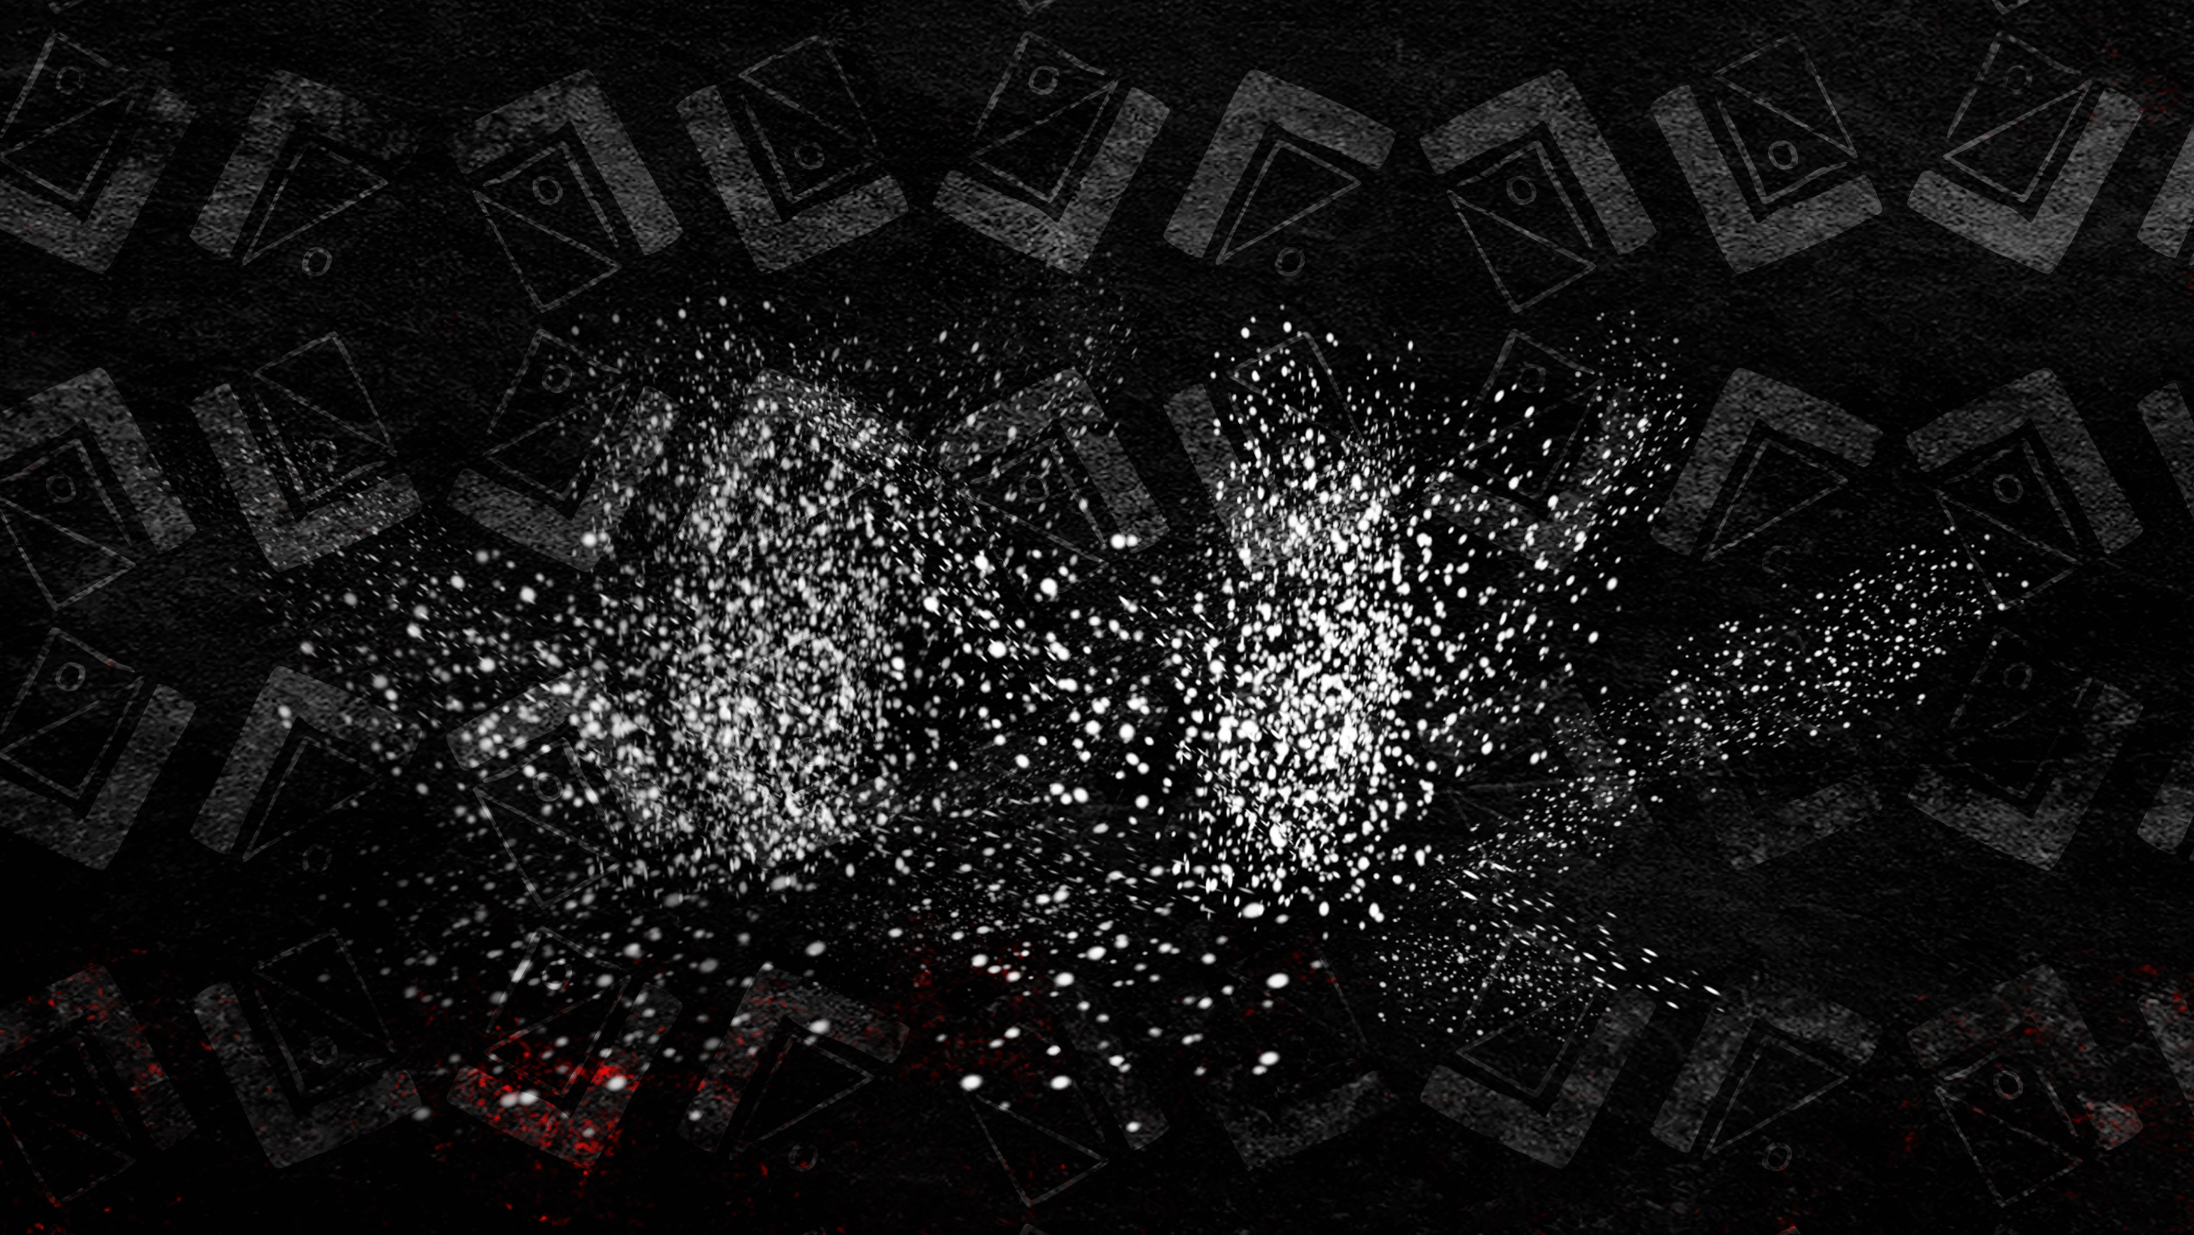
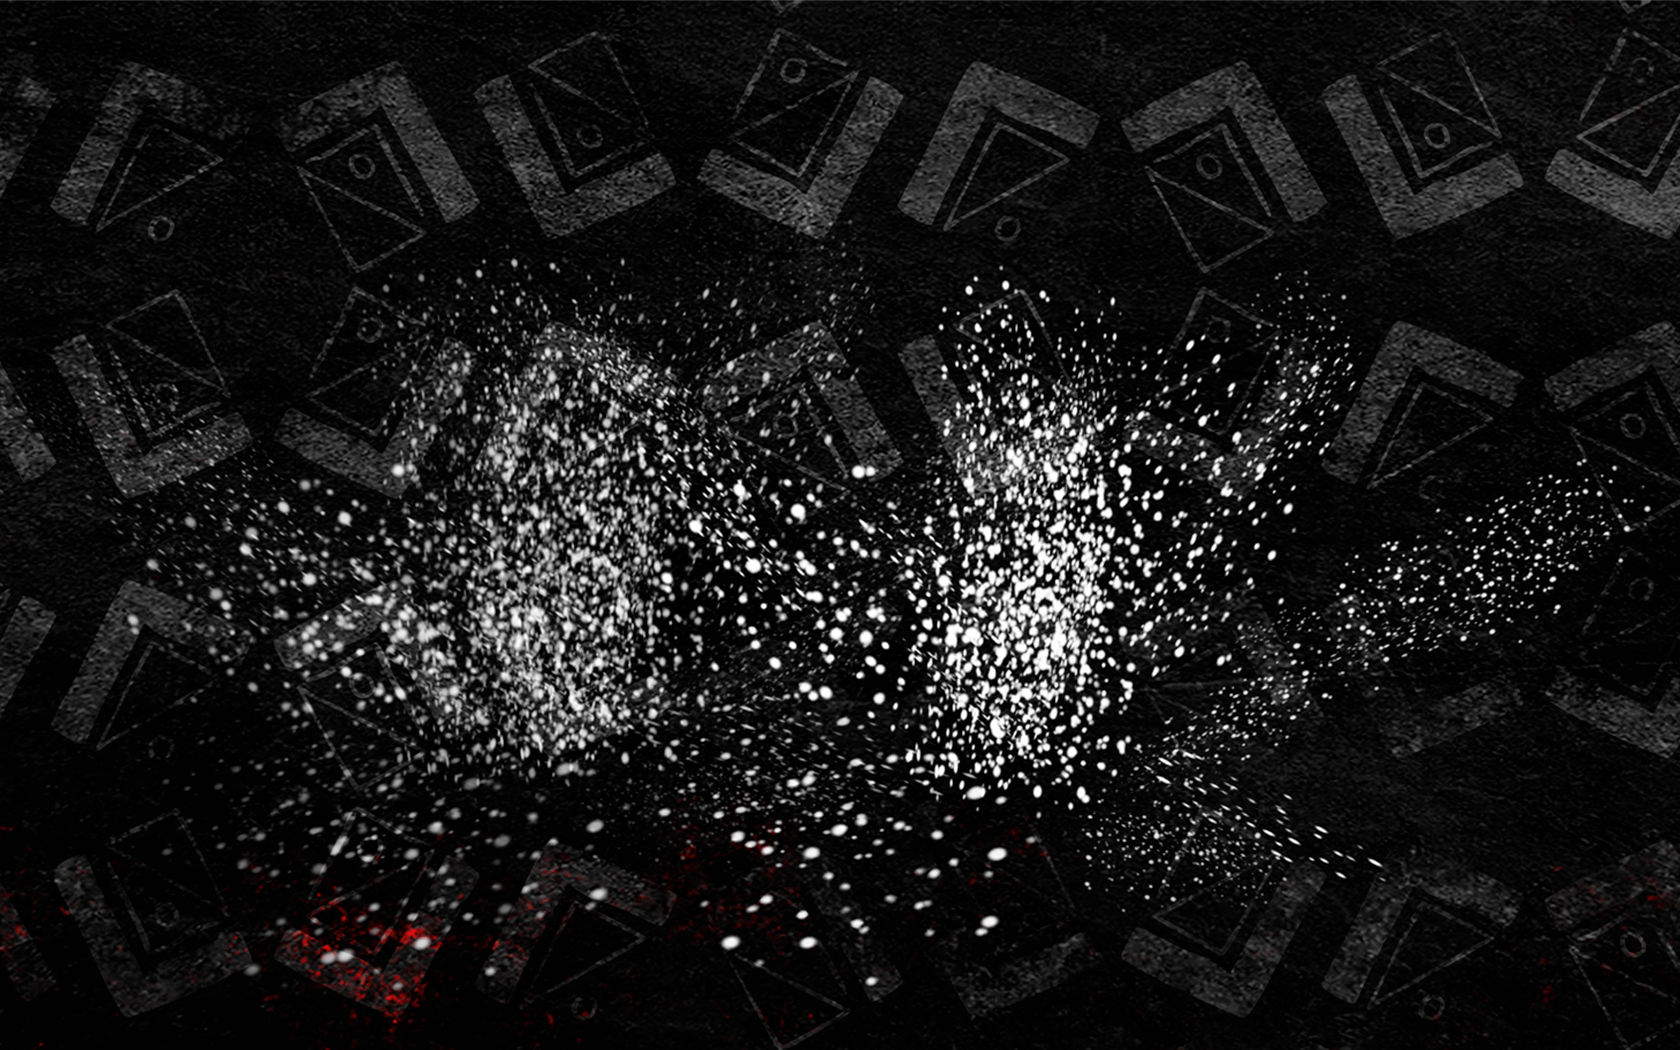
changes

diff --git a/assets/css/style.css b/assets/css/style.css
@@ -56,40 +56,15 @@ body{
     overflow-x: hidden;
 }
 
-/* Main Enter Page */
-
-.main_home{
-    position: relative;
-    /* background: url('../img/SolomonsWebsite/EnterPage/Background_EnterPage.png') no-repeat;
-    background-position: center;
-    background-size: cover; */
-    overflow: hidden;
-    width: 100%;
-    height: 100vh;
-    opacity: 1;
-    left: 0;
-}
-
-.main_home .background,
 .main_home .background_img{
     position: relative;
-    /* background: url('../img/SolomonsWebsite/EnterPage/Illustration_enterpage.png') no-repeat;
-    background-position: center;
-    background-size: cover; */
     width: 100%;
-    /* margin: auto 0; */
-    height: auto;
+    height: 100%;
 }
 
-.main_home .background_img{
-    position: absolute;
-    top: 0;
-    left: 0;
-}
-
-.main_home .background img,
 .main_home .background_img img{
     width: 100%;
+    height: 100%;
 }
 
 .main_home .enter_btn_section{
@@ -102,6 +77,8 @@ body{
     right: 0;
     bottom: 0;
     z-index: 9;
+    height: auto;
+    width: 100vw;
 }
 
 .main_home .enter_btn_section .btn{
@@ -111,15 +88,13 @@ body{
 
 .main_home .btn img.enter_btn{
     width: 100%;
+    height: auto;
 }
 
 /* Home Page */
 
 .home_section{
     position: relative;
-    /* background: url('../img/SolomonsWebsite/Homepage/Background_HomePage.png') no-repeat;
-    background-position: center center;
-    background-size: cover; */
     overflow: hidden;
     width: 100%;
     height: 100vh;
@@ -189,17 +164,13 @@ body{
     width: 100%;
 }
 
-.home_section .text p{
-    font-family: 'Agency FB Regular' !important;
-    color: white;
-    font-size: 1.6vw;
-    line-height: 1.1em;
+.home_section .text {
+    align-items: center;
+    width: 30%;
 }
 
-.home_section .text p strong{
-    font-family: 'Agency FB Bold' !important;
-    text-transform: uppercase;
-    font-size: 100%;
+.home_section .text img{
+    width: 100%;
 }
 
 .home_section .row a.intro_btn,
@@ -233,7 +204,7 @@ body{
 }
 
 .home_section .container .menu a.menu_link{
-    width: 12%;
+    width: 13%;
 }
 
 .home_section .container .menu a.menu_link img{
@@ -291,9 +262,164 @@ body{
 
 
 
+@media (min-width: 1281px) {
+  
+/* Main Enter Page */
 
+.main_home{
+    position: relative;
+    background: url('../img/SolomonsWebsite/EnterPage/Background_EnterPage.png') no-repeat;
+    background-position: top;
+    background-size: contain;
+    /* background-size: cover; */
+    overflow: hidden;
+    width: 100%;
+    height: 100vh;
+    opacity: 1;
+    left: 0;
+    }
 
+    .home_section{
+        height: 100vh;
+    }
+    
+}
+  
+  /* 
+    ##Device = Laptops, Desktops
+    ##Screen = B/w 1025px to 1280px
+  */
+  
+  @media (min-width: 1025px) and (max-width: 1280px) {
+    
+/* Main Enter Page */
 
+.main_home{
+    position: relative;
+    background: url('../img/SolomonsWebsite/EnterPage/Background_EnterPage.png') no-repeat;
+    background-position: top;
+    background-size: contain;
+    /* background-size: cover; */
+    overflow: hidden;
+    width: 100%;
+    height: 100vh;
+    opacity: 1;
+    left: 0;
+}
+.home_section{
+    height: 100vh;
+}
+    
+  }
+  
+  /* 
+    ##Device = Tablets, Ipads (portrait)
+    ##Screen = B/w 768px to 1024px
+  */
+  
+  @media (min-width: 768px) and (max-width: 1024px) {
+    
+/* Main Enter Page */
+
+.main_home{
+    position: relative;
+    background: url('../img/SolomonsWebsite/EnterPage/Background_EnterPage.png') no-repeat;
+    background-position: top;
+    background-size: contain;
+    /* background-size: cover; */
+    overflow: hidden;
+    width: 100%;
+    height: 100%;
+    opacity: 1;
+    left: 0;
+}
+.home_section{
+    height: 100%;
+}
+    
+  }
+  
+  /* 
+    ##Device = Tablets, Ipads (landscape)
+    ##Screen = B/w 768px to 1024px
+  */
+  
+  @media (min-width: 768px) and (max-width: 1024px) and (orientation: landscape) {
+    
+/* Main Enter Page */
+
+.main_home{
+    position: relative;
+    background: url('../img/SolomonsWebsite/EnterPage/Background_EnterPage.png') no-repeat;
+    background-position: top;
+    background-size: contain;
+    /* background-size: cover; */
+    overflow: hidden;
+    width: 100%;
+    height: 100%;
+    opacity: 1;
+    left: 0;
+}
+.home_section{
+    height: 100%;
+}
+
+    
+  }
+  
+  /* 
+    ##Device = Low Resolution Tablets, Mobiles (Landscape)
+    ##Screen = B/w 481px to 767px
+  */
+  
+  @media (min-width: 481px) and (max-width: 767px) {
+    
+/* Main Enter Page */
+
+.main_home{
+    position: relative;
+    background: url('../img/SolomonsWebsite/EnterPage/Background_EnterPage.png') no-repeat;
+    background-position: top;
+    background-size: contain;
+    /* background-size: cover; */
+    overflow: hidden;
+    width: 100%;
+    height: 100%;
+    opacity: 1;
+    left: 0;
+}
+.home_section{
+    height: 100%;
+}
+
+  }
+  
+  /* 
+    ##Device = Most of the Smartphones Mobiles (Portrait)
+    ##Screen = B/w 320px to 479px
+  */
+  
+  @media (min-width: 320px) and (max-width: 480px) {
+        
+/* Main Enter Page */
+
+.main_home{
+    position: relative;
+    background: url('../img/SolomonsWebsite/EnterPage/Background_EnterPage.png') no-repeat;
+    background-position: top;
+    background-size: contain;
+    /* background-size: cover; */
+    overflow: hidden;
+    width: 100%;
+    height: 100%;
+    opacity: 1;
+    left: 0;
+}
+
+.home_section{
+    height: 100%;
+}
+  }
 
 
 

diff --git a/index.html b/index.html
@@ -13,19 +13,17 @@
 <body>
 
     <section class="main_home">
-        <div class="background">
+        <!-- <div class="background">
             <img src="assets/img/SolomonsWebsite/EnterPage/Background_EnterPage.png" alt="">
-            <div class="background_img">
-                <img src="assets/img/SolomonsWebsite/EnterPage/Illustration_enterpage.png" alt="">
-                <div class="enter_btn_section">
-                    <a href="home.html" class="btn">
-                        <img src="assets/img/SolomonsWebsite/EnterPage/EnterButton-WithHand.png" alt="" class="enter_btn">
-                    </a>
-                </div> 
-            </div>
+        </div> -->
+        <div class="background_img">
+            <img src="assets/img/SolomonsWebsite/EnterPage/Illustration_enterpage.png" alt="">
+            <div class="enter_btn_section">
+                <a href="home.html" class="btn">
+                    <img src="assets/img/SolomonsWebsite/EnterPage/EnterButton-WithHand.png" alt="" class="enter_btn">
+                </a>
+            </div> 
         </div>
-         
-        
     </section>
     
 </body>

diff --git a/home.html b/home.html
@@ -29,11 +29,7 @@
                     <img src="assets/img/SolomonsWebsite/Homepage/Illustration_HomePage.png" alt="">
                 </figure>
                 <div class="text">
-                    <p>
-                        <strong>Solomon: In Search of A Song</strong> is the captivating, inspiring and <br>
-                        unifying journey of one man experiencing the culture and sounds of <br>
-                        the cradle of civilization; Africa. 
-                    </p>
+                    <img src="assets/img/SolomonsWebsite/Homepage/Text_homePage.png" alt="">
                 </div>
                 <div class="container" style="margin-top: -16px;">
                     <div class="row align-items-center justify-content-evenly w-70">
@@ -75,7 +71,7 @@
     <!-- Background Music -->
 
     <audio autoplay id="bg_music">
-        <source src="assets/music/Solomon - One Unity [Remake] (1).mp3" type="audio/mpeg">
+        <!-- <source src="assets/music/Solomon - One Unity [Remake] (1).mp3" type="audio/mpeg"> -->
     </audio>
 </body>
 
